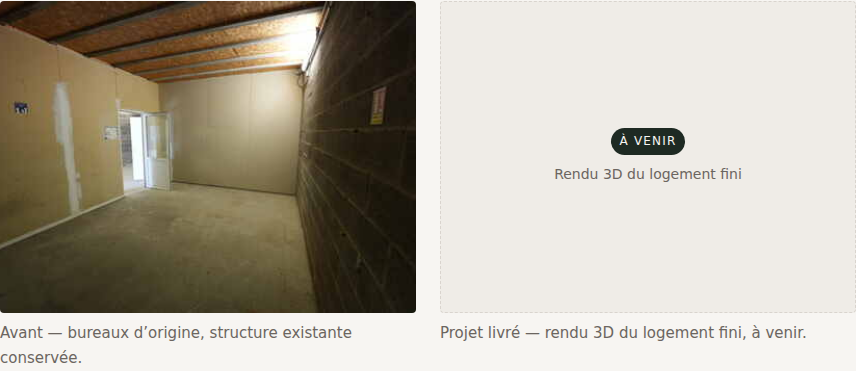
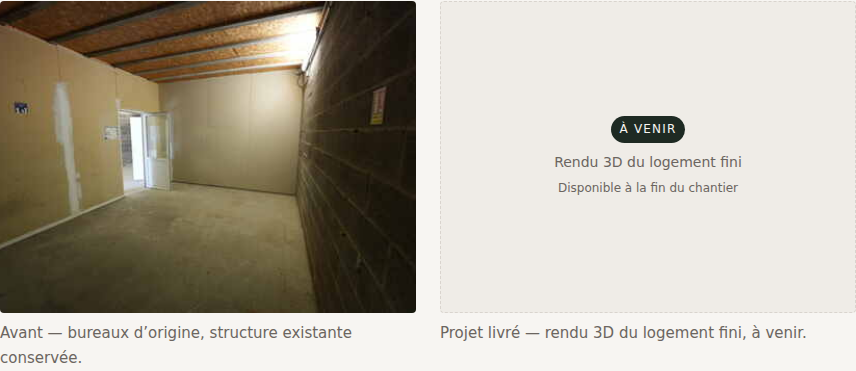
design(immobilier): vague 2 — polish visuel dossier + hiérarchie prix
@design (validé en captures réelles) :
- Price card : mène désormais avec 'À partir de 118 000 €' (prix d'appel brut) au
  lieu de 145 000 € (prêt-à-habiter) — avantage psychologique du prix d'entrée.
- Badge DISPONIBLE : variant transparent borduré, lisible sur fond sombre (avant :
  vert sombre quasi invisible).
- 5 valeurs typo en dur → tokens/clamp (responsive, cohérence design-system).
- Sous-texte 'Disponible à la fin du chantier' sur placeholder rendu 3D.
- Breakpoint tablette (481-767px) pour la grille 'À prévoir' (2 col au lieu d'un
  saut 3→1).

Captures screens-s34 régénérées post-correction (price card + 'annonces comparables
2026' à la place d'efficity). Build clean, 23/23 tests PASS.

https://claude.ai/code/session_01CpctjF739ScvoG6SgCziZU

Changed region(s): [[0.6379, 0.2965, 0.8808, 0.5337]]

diff --git a/versi-immobilier/src/index.css b/versi-immobilier/src/index.css
@@ -729,8 +729,10 @@ ul, ol {
 }
 
 .property-price-card__badge--disponible {
-  background: var(--badge-en-vente-bg);
-  color: var(--badge-en-vente-text);
+  /* Sur fond dark card, utilise un contraste inversé pour maintenir la lisibilité */
+  background: rgba(255, 255, 255, 0.12);
+  color: var(--color-text-inverse);
+  border: 1px solid rgba(255, 255, 255, 0.2);
 }
 
 .property-price-card__badge--sous-compromis {
@@ -1757,7 +1759,7 @@ ul, ol {
 }
 
 .property-dossier__formule-price {
-  font-size: 2rem;
+  font-size: clamp(1.5rem, 2.5vw, 2rem);
   font-weight: var(--font-weight-medium);
   letter-spacing: -0.01em;
   line-height: 1.1;
@@ -1800,7 +1802,7 @@ ul, ol {
 }
 
 .property-dossier__phase-num {
-  font-size: 1.5rem;
+  font-size: clamp(1.25rem, 2vw, 1.5rem);
   font-weight: var(--font-weight-light);
   color: var(--color-accent);
   letter-spacing: -0.01em;
@@ -1814,7 +1816,7 @@ ul, ol {
 }
 
 .property-dossier__phase-title {
-  font-size: 1.125rem;
+  font-size: var(--font-size-body-lg);
   font-weight: var(--font-weight-medium);
   margin: 0;
   color: var(--color-text-primary);
@@ -1926,7 +1928,7 @@ ul, ol {
 }
 
 .property-dossier__dpe-letter {
-  font-size: 2.5rem;
+  font-size: clamp(2rem, 3.5vw, 2.5rem);
   font-weight: var(--font-weight-medium);
   line-height: 1;
 }
@@ -2023,7 +2025,7 @@ ul, ol {
 }
 
 .property-dossier__aprevoir-value {
-  font-size: 1.25rem;
+  font-size: var(--font-size-body-lg);
   font-weight: var(--font-weight-medium);
   font-variant-numeric: tabular-nums;
   color: var(--color-text-primary);
@@ -2101,6 +2103,15 @@ ul, ol {
   color: var(--color-accent);
 }
 
+/* Sous-texte complémentaire dans le placeholder projet */
+.property-dossier__projet-subtext {
+  color: var(--color-text-muted);
+  font-size: var(--font-size-small);
+  max-width: 200px;
+  text-align: center;
+  margin-top: calc(var(--spacing-xs) * -1);
+}
+
 /* Mentions légales du dossier */
 .property-dossier__mentions {
   color: var(--color-text-muted);
@@ -2108,6 +2119,13 @@ ul, ol {
   border-top: 1px solid var(--color-border);
   padding-top: var(--spacing-lg);
   max-width: var(--text-max-width-lg);
+}
+
+/* À prévoir — tablette : 2 colonnes avant de basculer en 1 */
+@media (max-width: 767px) and (min-width: 481px) {
+  .property-dossier__aprevoir {
+    grid-template-columns: repeat(2, 1fr);
+  }
 }
 
 /* Price card — modalité + notaire */

diff --git a/versi-immobilier/src/pages/PropertyDetailPage.jsx b/versi-immobilier/src/pages/PropertyDetailPage.jsx
@@ -399,13 +399,21 @@ export default function PropertyDetailPage() {
               {/* ── Colonne droite — Price card sticky ── */}
               <aside aria-label="Prix et contact">
                 <div className="property-price-card">
-                  <span className="property-price-card__label">Prix</span>
+                  {/* Prix vedette = prix d'appel (le plus bas = brut si dossier, sinon fallback).
+                      L'accroche commerciale mène toujours par le prix le plus accessible. */}
+                  <span className="property-price-card__label">
+                    {property.dossier?.formules?.brut ? 'À partir de' : 'Prix'}
+                  </span>
                   <span className="property-price-card__price">
-                    {property.dossier?.bandeauPrix?.prixVedette || property.price}
+                    {property.dossier?.formules?.brut?.price
+                      || property.dossier?.bandeauPrix?.prixVedette
+                      || property.price}
                   </span>
 
-                  {/* Sous-titre du dossier (ex : "Prêt à habiter · parking inclus") */}
-                  {property.dossier?.bandeauPrix?.sousTitre && (
+                  {/* Sous-titre : affiché uniquement si pas de bloc dual (évite la redondance) */}
+                  {property.dossier?.bandeauPrix?.sousTitre
+                    && !(property.dossier?.formules?.brut && property.dossier?.formules?.pretAHabiter)
+                    && (
                     <span className="property-price-card__note">
                       {property.dossier.bandeauPrix.sousTitre}
                     </span>

diff --git a/versi-immobilier/src/components/PropertyDossier.jsx b/versi-immobilier/src/components/PropertyDossier.jsx
@@ -190,6 +190,9 @@ export default function PropertyDossier({ dossier }) {
                 <span className="property-dossier__projet-text">
                   Rendu 3D du logement fini
                 </span>
+                <span className="property-dossier__projet-subtext">
+                  Disponible à la fin du chantier
+                </span>
               </div>
               {etatActuel.projetCaption && (
                 <figcaption className="text-body-sm property-dossier__caption">
